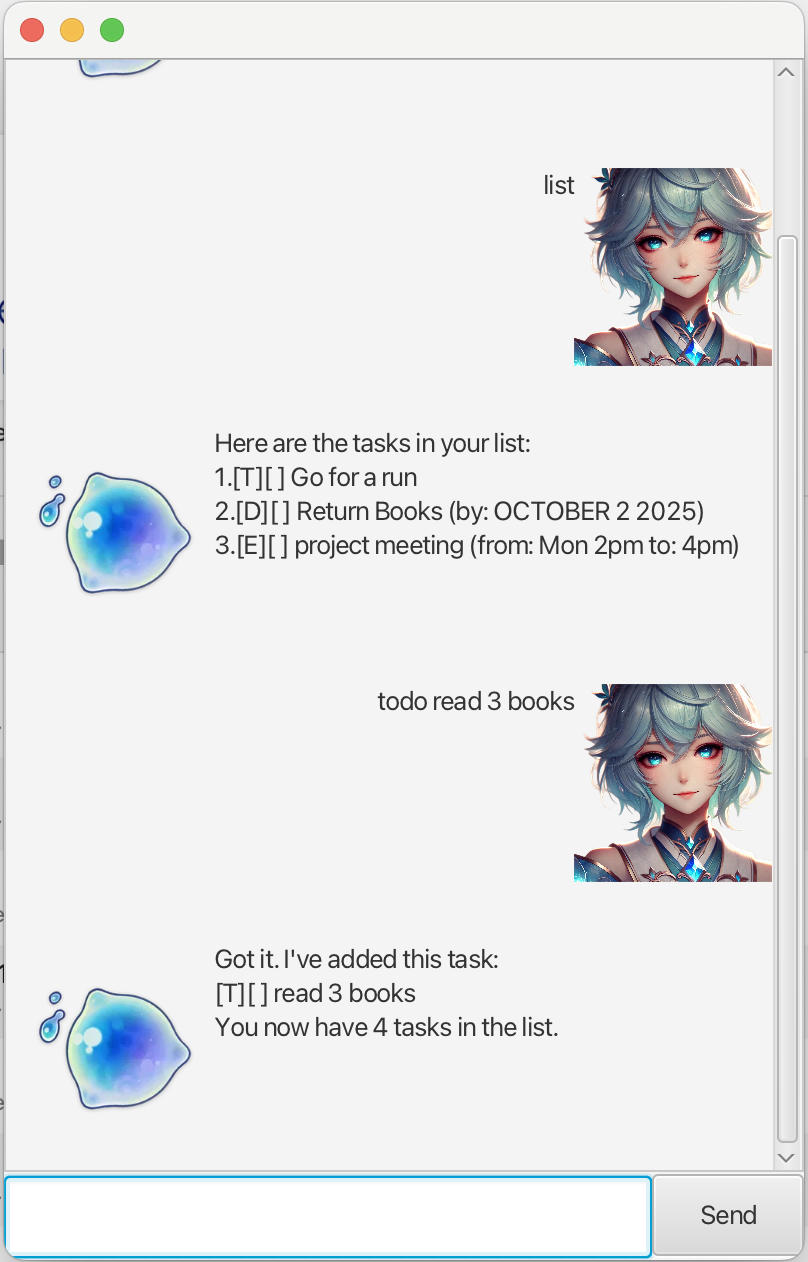
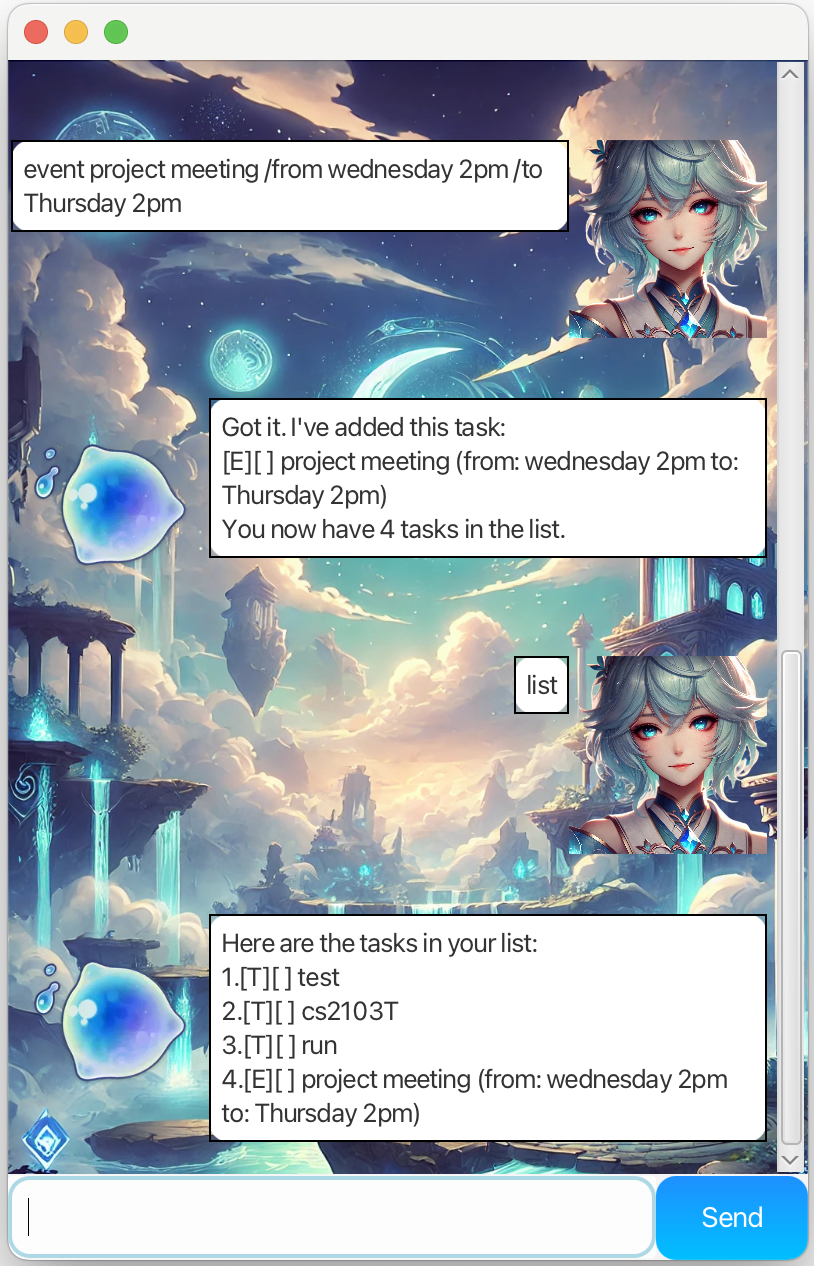
Fix some bugs in parser and improve GUI

diff --git a/src/main/resources/CSS/MainWindow.css b/src/main/resources/CSS/MainWindow.css
@@ -1,4 +1,4 @@
-/* MainWindow.css */
+/* gui.MainWindow.css */
 
 /* Set background image on ScrollPane to prevent zooming */
 #scrollPane {

diff --git a/src/main/java/parser/Parser.java b/src/main/java/parser/Parser.java
@@ -33,17 +33,17 @@ public class Parser {
         assert userInput != null : "User input should not be null";
         assert !userInput.trim().isEmpty() : "User input should not be empty";
         String[] inputParts = userInput.split(" ", 2);
-        String command = inputParts[0];
+        String command = inputParts[0].trim();
         switch (command) {
         case "list":
             return new ListCommand();
         case "mark":
-            if (inputParts.length < 2) {
+            if (inputParts.length < 2 || inputParts[1].trim().isEmpty()) {
                 throw new DewException("Mark command must include a task description.");
             }
             return new MarkCommand(Integer.parseInt(inputParts[1]) - 1);
         case "unmark":
-            if (inputParts.length < 2) {
+            if (inputParts.length < 2 || inputParts[1].trim().isEmpty()) {
                 throw new DewException("Unmark command must include a task description.");
             }
             return new UnmarkCommand(Integer.parseInt(inputParts[1]) - 1);
@@ -58,7 +58,7 @@ public class Parser {
             }
             return new AddCommand(new Todo(inputParts[1]));
         case "deadline":
-            if (inputParts.length < 2) {
+            if (inputParts.length < 2 || inputParts[1].trim().isEmpty()) {
                 throw new DewException("Deadline command must include a task description and a deadline.");
             }
             if (!inputParts[1].contains(" /by ")) {
@@ -72,7 +72,7 @@ public class Parser {
                 throw new DewException("Invalid date format! Use YYYY-MM-DD.");
             }
         case "event":
-            if (inputParts.length < 2) {
+            if (inputParts.length < 2 || inputParts[1].trim().isEmpty()) {
                 throw new DewException("Event command must include a task description and time range.");
             }
             if (!inputParts[1].contains(" /from ") || !inputParts[1].contains(" /to ")) {
@@ -100,7 +100,7 @@ public class Parser {
                 throw new DewException("Invalid task number! Task index must be a valid number.");
             }
         case "delete":
-            if (inputParts.length < 2) {
+            if (inputParts.length < 2 || inputParts[1].trim().isEmpty()) {
                 throw new DewException("Delete command must include a task number.");
             }
             return new DeleteCommand(Integer.parseInt(inputParts[1]) - 1);

diff --git a/src/test/java/task/TodoTest.java b/src/test/java/task/TodoTest.java
@@ -1,8 +1,11 @@
 package task;
 
+import static org.junit.jupiter.api.Assertions.assertEquals;
+import static org.junit.jupiter.api.Assertions.assertFalse;
+import static org.junit.jupiter.api.Assertions.assertTrue;
+
 import org.junit.jupiter.api.BeforeEach;
 import org.junit.jupiter.api.Test;
-import static org.junit.jupiter.api.Assertions.*;
 
 public class TodoTest {
 
@@ -26,15 +29,18 @@ public class TodoTest {
 
     @Test
     void toString_formatsCorrectly() {
-        assertEquals("[T][ ] Test Todo", todo.toString(), "toString should match expected format before marking as done");
+        assertEquals("[T][ ] Test Todo", todo.toString(),
+                "toString should match expected format before marking as done");
 
         todo.markStatusIcon();
-        assertEquals("[T][X] Test Todo", todo.toString(), "toString should reflect marked as done state");
+        assertEquals("[T][X] Test Todo", todo.toString(),
+                "toString should reflect marked as done state");
     }
 
     @Test
     void toFileFormat_formatsCorrectly() {
-        assertEquals("T | 0 | Test Todo", todo.toFileFormat(), "toFileFormat should match expected format before marking as done");
+        assertEquals("T | 0 | Test Todo", todo.toFileFormat(),
+                "toFileFormat should match expected format before marking as done");
 
         todo.markStatusIcon();
         assertEquals("T | 1 | Test Todo", todo.toFileFormat(), "toFileFormat should reflect marked as done state");

diff --git a/src/test/java/command/AddCommandTest.java b/src/test/java/command/AddCommandTest.java
@@ -1,17 +1,19 @@
 package command;
 
-import dew.DewException;
-import org.junit.jupiter.api.BeforeEach;
-import org.junit.jupiter.api.Test;
-import static org.junit.jupiter.api.Assertions.*;
-
-import task.Task;
-import task.TaskList;
-import storage.Storage;
-import task.Todo;
-import ui.Ui;
+import static org.junit.jupiter.api.Assertions.assertEquals;
+import static org.junit.jupiter.api.Assertions.assertFalse;
 
 import java.util.ArrayList;
+
+import org.junit.jupiter.api.BeforeEach;
+import org.junit.jupiter.api.Test;
+
+import dew.DewException;
+import storage.Storage;
+import task.Task;
+import task.TaskList;
+import task.Todo;
+import ui.Ui;
 
 public class AddCommandTest {
 
@@ -45,7 +47,8 @@ public class AddCommandTest {
         // Manually check if tasks were saved (assuming storage has a way to retrieve saved tasks)
         TaskList loadedTasks = new TaskList(storage.loadTasks());
         assertEquals(1, loadedTasks.getTasks().size(), "Storage should persist the task");
-        assertEquals(sampleTask.toString(), loadedTasks.getTasks().get(0).toString(), "Stored task should match original");
+        assertEquals(sampleTask.toString(), loadedTasks.getTasks().get(0).toString(),
+                "Stored task should match original");
     }
 
     @Test

diff --git a/src/main/java/gui/MainWindow.java b/src/main/java/gui/MainWindow.java
@@ -1,3 +1,5 @@
+package gui;
+
 import dew.Dew;
 import javafx.animation.PauseTransition;
 import javafx.fxml.FXML;
@@ -28,6 +30,11 @@ public class MainWindow extends AnchorPane {
     private Image dewImage = new Image(this.getClass().getResourceAsStream("/images/DaDew.png"));
     private Image backgroundImage = new Image(this.getClass().getResourceAsStream("/images/Background.png"));
 
+    /**
+     * Initializes the main GUI window.
+     * Binds the scroll pane to automatically scroll down as new messages are added.
+     * Displays a welcome message when the application starts.
+     */
     @FXML
     public void initialize() {
 

diff --git a/src/main/java/dew/Main.java b/src/main/java/dew/Main.java
@@ -1,6 +1,8 @@
+package dew;
+
 import java.io.IOException;
 
-import dew.Dew;
+import gui.MainWindow;
 import javafx.application.Application;
 import javafx.fxml.FXMLLoader;
 import javafx.scene.Scene;
@@ -11,8 +13,8 @@ import javafx.stage.Stage;
  * A GUI for Dew using FXML.
  */
 public class Main extends Application {
-    private static String FILE_PATH = "src/main/tasks.txt";
-    private Dew dew = new Dew(FILE_PATH);
+    private static final String FILE_PATH = "src/main/tasks.txt";
+    private final Dew dew = new Dew(FILE_PATH);
 
     @Override
     public void start(Stage stage) {

diff --git a/src/main/java/task/Task.java b/src/main/java/task/Task.java
@@ -83,6 +83,12 @@ public abstract class Task {
         return task;
     }
 
+    /**
+     * Updates the description of the task.
+     *
+     * @param newDescription The new description to set.
+     * @throws AssertionError If the new description is null or empty.
+     */
     public void updateDescription(String newDescription) {
         assert newDescription != null && !newDescription.trim().isEmpty() : "New description cannot be empty";
         this.description = newDescription;

diff --git a/src/main/java/task/TaskList.java b/src/main/java/task/TaskList.java
@@ -45,6 +45,11 @@ public class TaskList {
      * @param index The index of the task to be removed.
      */
     public String deleteTask(int index) {
+        if (tasks.isEmpty()) {
+            return "There is no tasks in the list";
+        } else if (index < 0 || index >= tasks.size()) {
+            return "Please select a task from the list";
+        }
         Task removedTask = tasks.remove(index);
         return "Noted. I've removed this task:\n   " + removedTask;
     }

diff --git a/src/main/java/gui/DialogBox.java b/src/main/java/gui/DialogBox.java
@@ -1,3 +1,5 @@
+package gui;
+
 import java.io.IOException;
 import java.util.Collections;
 

diff --git a/src/main/java/dew/Launcher.java b/src/main/java/dew/Launcher.java
@@ -1,3 +1,5 @@
+package dew;
+
 import javafx.application.Application;
 
 /**
